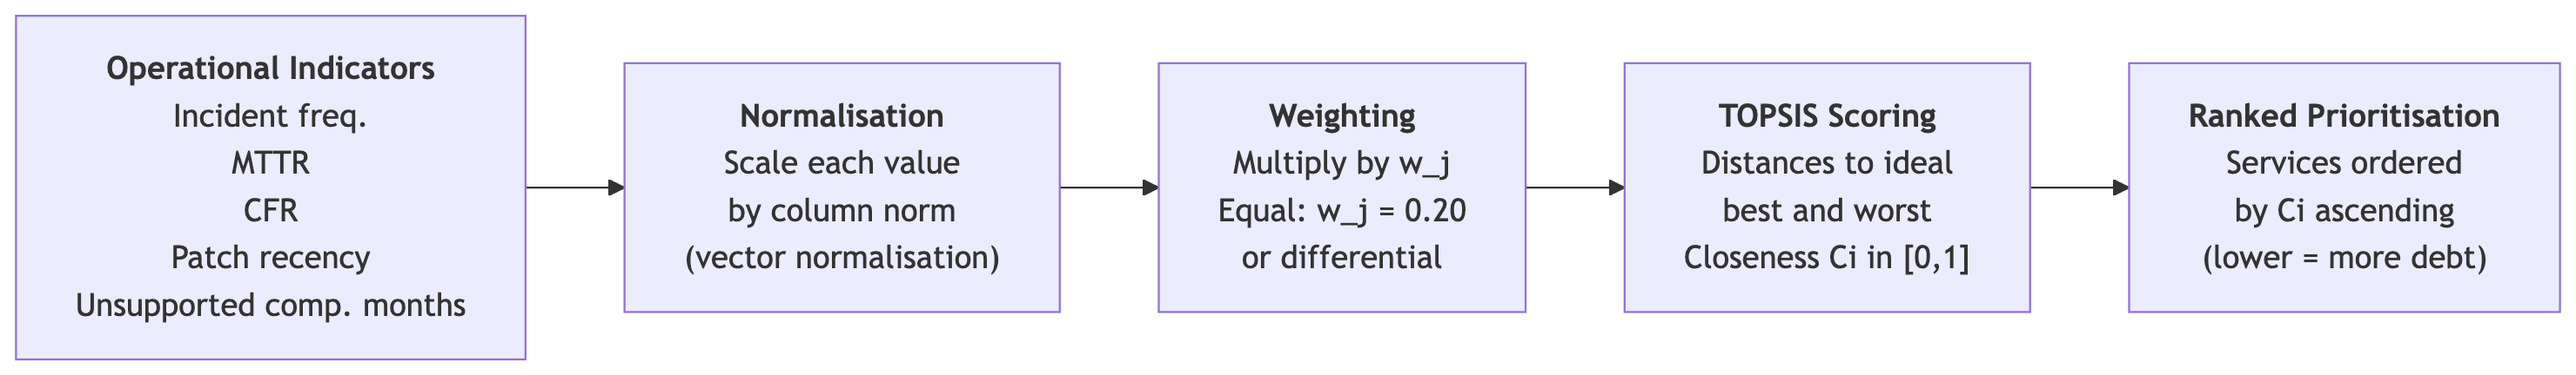
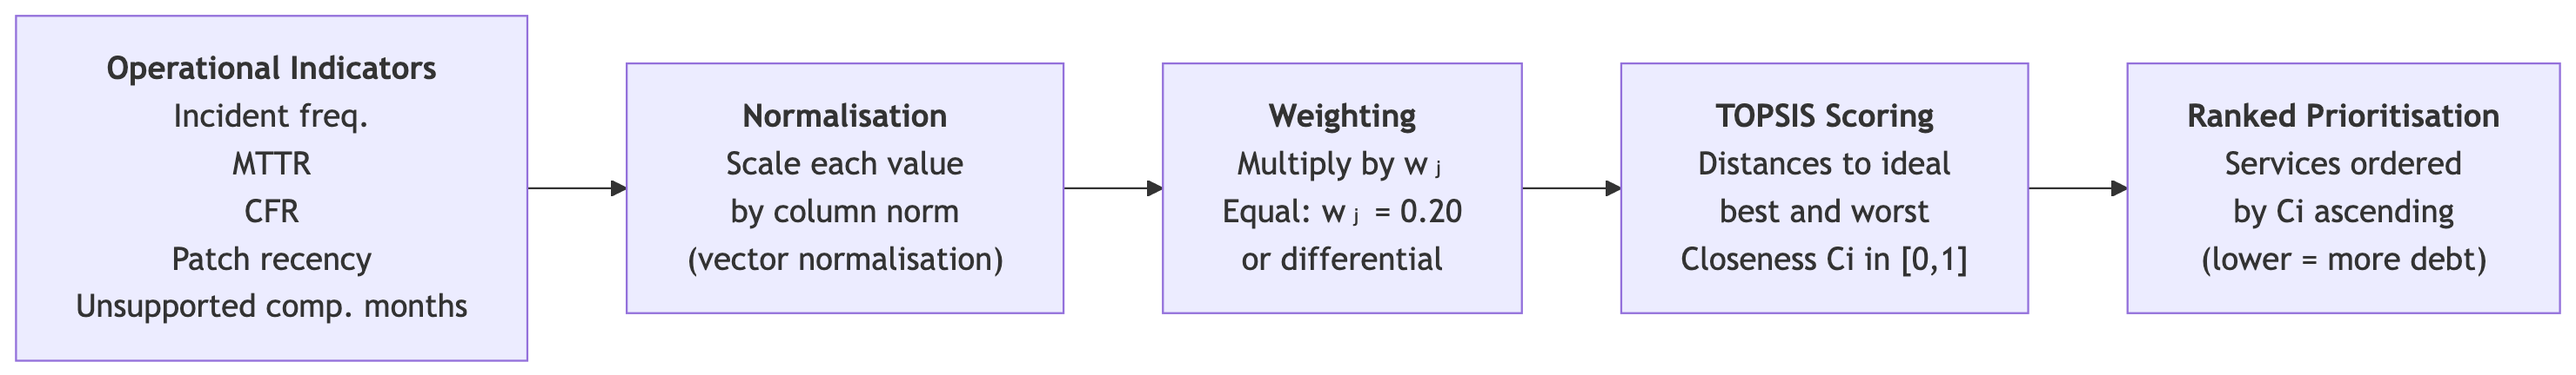
revising several parts

diff --git a/quarto/frontmatter/abbreviations.tex b/quarto/frontmatter/abbreviations.tex
@@ -12,6 +12,7 @@
 \textbf{IT}       & Information Technology \\
 \textbf{ITIL}     & IT Infrastructure Library \\
 \textbf{ITSM}     & IT Service Management \\
+\textbf{MCDA}     & Multi-Criteria Decision-Analysis \\
 \textbf{MCDM}     & Multi-Criteria Decision-Making \\
 \textbf{MTTR}     & Mean Time to Recover \\
 \textbf{RQ}       & Research Question \\
